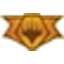
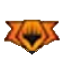
Create Rarity filter in user collection

diff --git a/src/scripts/utils.js b/src/scripts/utils.js
@@ -1,31 +1,37 @@
 
 export default {
   colors: [
-    {code: 'w', desc: 'White', hexValue: '#EEEEEE', hexHoverValue: '#DDDDDD'},
-    {code: 'u', desc: 'Blue', hexValue: '#2196F3', hexHoverValue: '#42A5F5'},
-    {code: 'b', desc: 'Black', hexValue: '#000000', hexHoverValue: '#111111'},
-    {code: 'r', desc: 'Red', hexValue: '#F44336', hexHoverValue: '#EF5350'},
-    {code: 'g', desc: 'Green', hexValue: '#4CAF50', hexHoverValue: '#66BB6A'},
-    {code: 'm', desc: 'Multicolor', hexValue: '#FFC107', hexHoverValue: '#FFCA28'},
-    {code: 'c', desc: 'Colorless', hexValue: '#9E9E9E', hexHoverValue: '#BDBDBD'}
+    { code: 'w', name: 'White', hexValue: '#EEEEEE', hexHoverValue: '#DDDDDD' },
+    { code: 'u', name: 'Blue', hexValue: '#2196F3', hexHoverValue: '#42A5F5' },
+    { code: 'b', name: 'Black', hexValue: '#000000', hexHoverValue: '#111111' },
+    { code: 'r', name: 'Red', hexValue: '#F44336', hexHoverValue: '#EF5350' },
+    { code: 'g', name: 'Green', hexValue: '#4CAF50', hexHoverValue: '#66BB6A' },
+    { code: 'm', name: 'Multicolor', hexValue: '#FFC107', hexHoverValue: '#FFCA28' },
+    { code: 'c', name: 'Colorless', hexValue: '#9E9E9E', hexHoverValue: '#BDBDBD' }
+  ],
+  rarities: [
+    { code: 'c', name: 'Common', color: 'grey' },
+    { code: 'u', name: 'Uncommon', color: 'blue-grey' },
+    { code: 'r', name: 'Rare', color: 'amber' },
+    { code: 'm', name: 'Mythic', color: 'deep-orange' }
   ],
   types: [
-    {code: 'l', desc: 'Lands'},
-    {code: 'c', desc: 'Creatures'},
-    {code: 'i', desc: 'Instants'},
-    {code: 's', desc: 'Sorceries'},
-    {code: 'e', desc: 'Enchantments'},
-    {code: 'a', desc: 'Artifacts'},
-    {code: 'p', desc: 'Planeswalkers'}
+    { code: 'l', name: 'Lands' },
+    { code: 'c', name: 'Creatures' },
+    { code: 'i', name: 'Instants' },
+    { code: 's', name: 'Sorceries' },
+    { code: 'e', name: 'Enchantments' },
+    { code: 'a', name: 'Artifacts' },
+    { code: 'p', name: 'Planeswalkers' }
   ],
   sets: [
-    {code: 'ANA', name: 'New Player Experience'},
-    {code: 'XLN', name: 'Ixalan'},
-    {code: 'RIX', name: 'Rivals of Ixalan'},
-    {code: 'DAR', name: 'Dominaria'},
-    {code: 'M19', name: 'Core Set 2019'},
-    {code: 'GRN', name: 'Guilds of Ravnica'},
-    {code: 'MED', name: 'Mythic Edition'}
+    { code: 'ANA', name: 'New Player Experience' },
+    { code: 'XLN', name: 'Ixalan' },
+    { code: 'RIX', name: 'Rivals of Ixalan' },
+    { code: 'DAR', name: 'Dominaria' },
+    { code: 'M19', name: 'Core Set 2019' },
+    { code: 'GRN', name: 'Guilds of Ravnica' },
+    { code: 'MED', name: 'Mythic Edition' }
   ],
   captalize: function (value) {
     return value.charAt(0).toUpperCase() + value.slice(1).toLowerCase()

diff --git a/src/pages/UserCollection.vue b/src/pages/UserCollection.vue
@@ -18,6 +18,8 @@
         <v-text-field class="mt-4 pl-4 pr-4" label="Search" 
           v-model="searchQuery" @keyup.native.enter="updateFilters"
           solo single-line hide-details clearable />
+        <ColorFilter class="mt-3 pl-3 pr-3" v-model="activeColors"/>
+        <RarityFilter class="mt-3 pl-3 pr-3" v-model="activeRarities"/>
       </v-flex>
       <!-- Center -->
       <v-flex           xs12 sm8>
@@ -42,8 +44,7 @@
       </v-flex>
       <!-- Right -->
       <v-flex hidden-xs-only sm2>
-        <ColorFilter class="mt-4 pl-3 pr-3" v-model="activeColors"/>
-        <TypeFilter class="mt-3 pl-3 pr-3" v-model="activeTypes"/>
+        <TypeFilter class="mt-4 pl-3 pr-3" v-model="activeTypes"/>
         <SetFilter class="mt-3 pl-3 pr-3" v-model="activeSets"/>
         <v-btn class="mt-3" color="white" @click="updateFilters()">Apply</v-btn>
       </v-flex>
@@ -54,13 +55,14 @@
 <script>
 import Card from '@/components/mtg/Card'
 import ColorFilter from '@/components/filters/ColorFilter'
+import RarityFilter from '@/components/filters/RarityFilter'
 import TypeFilter from '@/components/filters/TypeFilter'
 import SetFilter from '@/components/filters/SetFilter'
 
 export default {
   name: 'UserCollection',
   components: {
-    Card, ColorFilter, TypeFilter, SetFilter
+    Card, ColorFilter, RarityFilter, TypeFilter, SetFilter
   },
   mounted () {
     this.getCards()
@@ -69,6 +71,7 @@ export default {
     return {
       currentPage: this.$route.query.page !== undefined ? parseInt(this.$route.query.page) : 1,
       activeColors: this.$route.query.colors !== undefined ? this.$route.query.colors : 'b,c,g,m,r,u,w',
+      activeRarities: this.$route.query.rarities !== undefined ? this.$route.query.rarities : 'c,u,r,m',
       activeTypes: this.$route.query.types !== undefined ? this.$route.query.types : 'a,c,e,i,l,p,s',
       activeSets: this.$route.query.sets !== undefined ? this.$route.query.sets : 'ANA,XLN,RIX,DAR,M19,GRN,MED',
       searchQuery: this.$route.query.query,
@@ -91,7 +94,7 @@ export default {
       this.isLoading = true
       const pageSize = 12
       this.$api.getCards(this.currentPage, pageSize, this.searchQuery,
-        this.activeColors, this.activeTypes, this.activeSets)
+        this.activeColors, this.activeRarities, this.activeTypes, this.activeSets)
         .then(res => {
           this.currentPageCards = res.data.data
           this.totalPages = res.data.totalPages
@@ -116,6 +119,7 @@ export default {
           page: 1,
           query: this.searchQuery,
           colors: this.activeColors,
+          rarities: this.activeRarities,
           types: this.activeTypes,
           sets: this.activeSets
         }

diff --git a/src/components/filters/RarityFilter.vue b/src/components/filters/RarityFilter.vue
@@ -2,13 +2,14 @@
   <div class="ml-2 mr-2 textNoSelect">
     <v-card :class="`pt-2 pl-2 pr-2 pb-2 ${expand ? 'd-block' : ''}`">
       <div class="text-xs-left body-1">
-        <span class="label pl-1">Colors</span>
+        <span class="label pl-1">Rarity</span>
       </div>
       <div class="text-xs-center mt-1">
-        <v-tooltip v-for="color in colors" :key="color.code" top open-delay=500>
-          <img :class="!activeColors.includes(color.code) ? 'grayscale' : ''" slot="activator"
-            :src="require(`@/assets/mana/${color.code}.png`)" @click="colorClick(color.code)"/>
-          {{ color.name }}
+        <v-tooltip v-for="rarity in rarities" :key="rarity.code" top open-delay=500>
+          <i v-bind:title="setTitle" :class="`ss ss-2x ss-parl3 ss-${rarity.name.toLowerCase()}
+            ${!activeRarities.includes(rarity.code) ? ' grayscale' : ''}`"
+            @click="rarityClick(rarity.code)" slot="activator"/>
+          {{ rarity.name }}
         </v-tooltip>
       </div>
     </v-card>
@@ -23,10 +24,6 @@ export default {
     value: {
       type: String
     },
-    simple: {
-      type: Boolean,
-      default: false
-    },
     expand: {
       type: Boolean,
       default: false
@@ -34,17 +31,17 @@ export default {
   },
   data () {
     return {
-      activeColors: [],
-      colors: this.simple ? Utils.colors.filter(c => c.code !== 'c' && c.code !== 'm') : Utils.colors
+      activeRarities: [],
+      rarities: Utils.rarities
     }
   },
   mounted () {
-    this.activeColors = this.value.split(',')
+    this.activeRarities = this.value.split(',')
   },
   methods: {
-    colorClick (name) {
-      this.toogleItem(this.activeColors, name)
-      this.$emit('input', this.activeColors.sort().join())
+    rarityClick (name) {
+      this.toogleItem(this.activeRarities, name)
+      this.$emit('input', this.activeRarities.sort().join())
     },
     toogleItem (array, item) {
       if (array.includes(item)) {
@@ -56,7 +53,7 @@ export default {
   },
   watch: {
     value: function (value) {
-      this.activeColors = value.split(',')
+      this.activeRarities = value.split(',')
     }
   }
 }
@@ -72,13 +69,12 @@ export default {
     align-items: baseline;
     display: inline-block;
   }
-  img {
+  i {
     border-bottom: 1px orange solid;
     border-radius: 8px;
-    height: 36px;
     padding: 4px;
   }
-  img:hover {
+  i:hover {
     background: lightgray;
   }
   .grayscale {

diff --git a/src/components/charts/WinRatePieDistribution.vue b/src/components/charts/WinRatePieDistribution.vue
@@ -49,7 +49,7 @@ export default {
     colorsHexValue: function () {
       const data = []
       Object.keys(this.data).forEach(color => {
-        const colorObj = Utils.colors.find(colorObj => colorObj.desc.toLowerCase() === color)
+        const colorObj = Utils.colors.find(colorObj => colorObj.name.toLowerCase() === color)
         data.push(colorObj.hexValue)
       })
       return data
@@ -57,7 +57,7 @@ export default {
     colorsHexHoverValue: function () {
       const data = []
       Object.keys(this.data).forEach(color => {
-        const colorObj = Utils.colors.find(colorObj => colorObj.desc.toLowerCase() === color)
+        const colorObj = Utils.colors.find(colorObj => colorObj.name.toLowerCase() === color)
         data.push(colorObj.hexHoverValue)
       })
       return data

diff --git a/src/scripts/api.js b/src/scripts/api.js
@@ -148,13 +148,14 @@ export default {
       }
     })
   },
-  getCards (page, pageSize, query, colors, types, sets) {
+  getCards (page, pageSize, query, colors, rarities, types, sets) {
     return axios.get('/cards', {
       params: {
         pageNumber: page,
         pageSize: pageSize,
         query: query,
         colors: colors,
+        rarities: rarities,
         types: types,
         sets: sets,
         fields: 'name,mtgaid,multiverseid,imageUrl,imageUrlTransformed'

diff --git a/src/components/filters/TypeFilter.vue b/src/components/filters/TypeFilter.vue
@@ -8,7 +8,7 @@
         <v-tooltip v-for="type in types" :key="type.code" top open-delay=1000>
           <img :class="!activeTypes.includes(type.code) ? 'grayscale' : ''" slot="activator"
             :src="require(`@/assets/types/${type.code}.png`)" @click="typeClick(type.code)"/>
-          {{ type.desc }}
+          {{ type.name }}
         </v-tooltip>
       </div>
     </v-card>

diff --git a/src/components/charts/CardsColorDistribution.vue b/src/components/charts/CardsColorDistribution.vue
@@ -63,7 +63,7 @@ export default {
       const data = []
       Object.keys(this.cardsByColors).forEach(color => {
         const colorObj = Utils.colors.find(colorObj => colorObj.code === color)
-        data.push(colorObj.desc)
+        data.push(colorObj.name)
       })
       return data
     },

diff --git a/src/components/charts/CardsManaDistribution.vue b/src/components/charts/CardsManaDistribution.vue
@@ -72,7 +72,7 @@ export default {
       const data = []
       Object.keys(this.cardsByColors).forEach(color => {
         const colorObj = Utils.colors.find(colorObj => colorObj.code === color)
-        data.push(colorObj.desc)
+        data.push(colorObj.name)
       })
       return data
     },

diff --git a/src/components/charts/DecksColorDistribution.vue b/src/components/charts/DecksColorDistribution.vue
@@ -27,7 +27,7 @@ export default {
       const data = []
       Object.keys(this.colors).forEach(color => {
         const colorObj = Utils.colors.find(colorObj => colorObj.code === color)
-        data.push(colorObj.desc)
+        data.push(colorObj.name)
       })
       return data
     },
